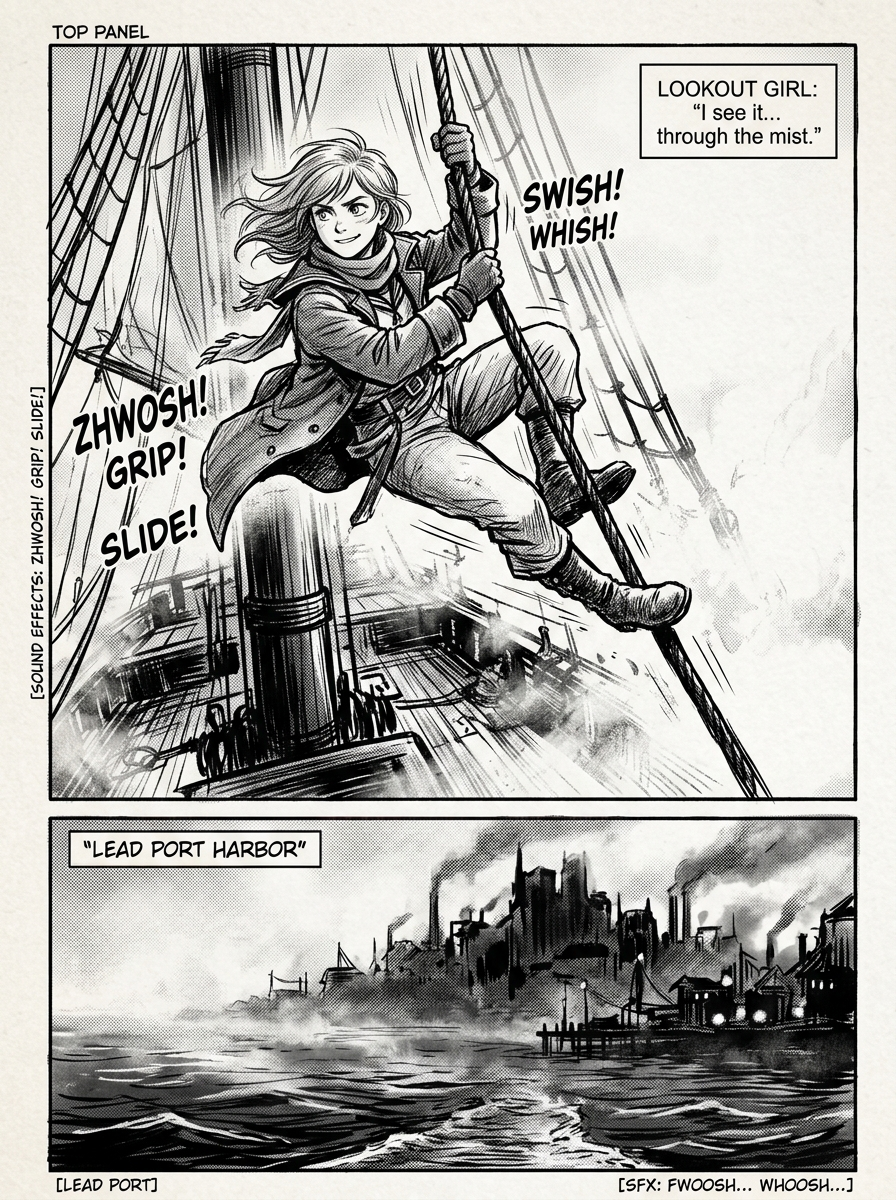
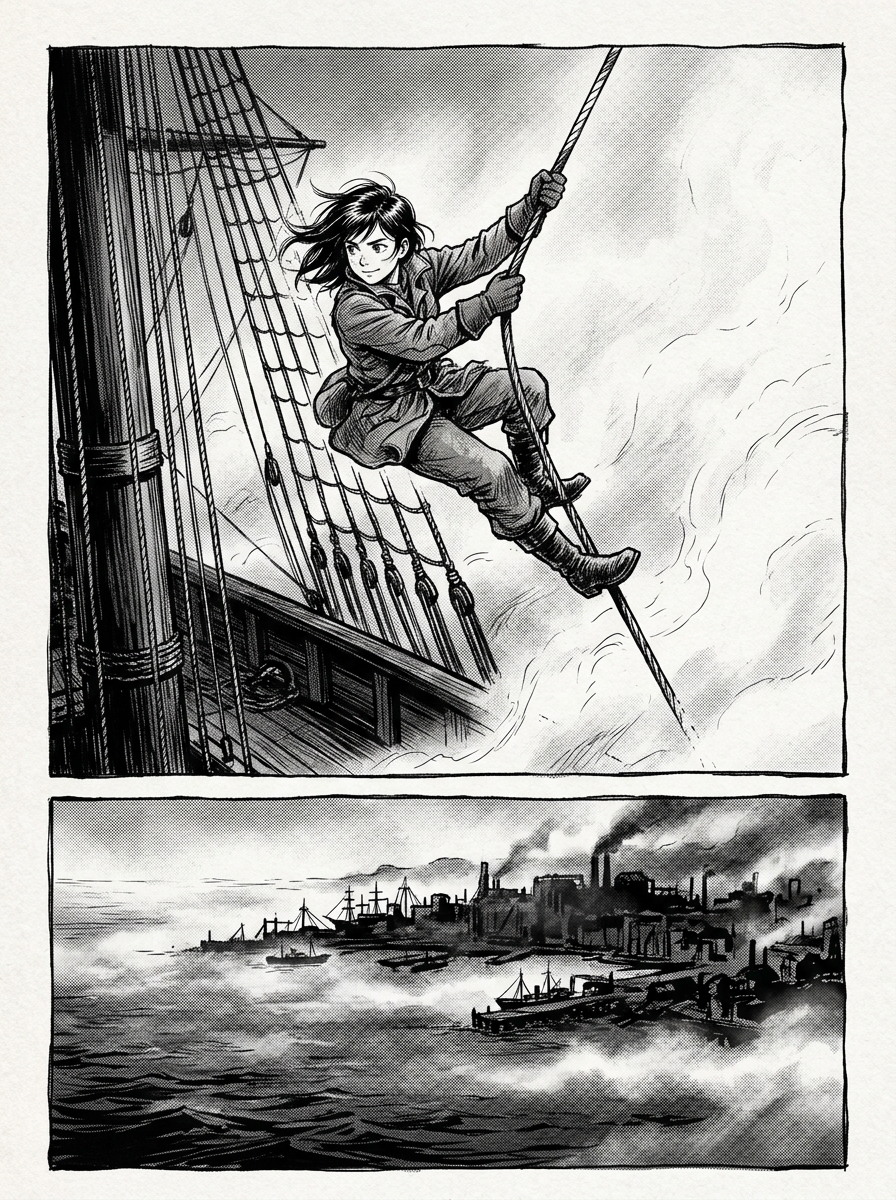
comic(masthead-bet): 落地圖恩 (Thorne) 人設卡、NAMING 正名表與 001 話重繪淨化圖檔
- 新增 RawImages/thorne_v1.png 角色視覺設定卡 (墨痕滿手、表情好讀)
- 依 NAMING.md 三項手勢重繪 001_p01.png, 001_p05.png, 001_p07.png (清除英文滲漏與標籤，鎖定 Night Falcon/Rin)
- 納入 summit 交付之 Characters/thorne.md 與 NAMING.md
- 準備就緒，開動第 002 話繪製

diff --git a/Comic/summit-masthead-bet/NAMING.md b/Comic/summit-masthead-bet/NAMING.md
@@ -1,0 +1,105 @@
+---
+title: 正名表與提示詞淨化規則（Canonical Names & Prompt Hygiene）
+slug: summit-masthead-bet-naming
+written_by: summit（原作）
+status: v1（2026-08-11 立，起因見下方血證）
+last_updated: 2026-08-11
+applies_to: 本作所有畫稿。**開畫任何一頁之前先讀這份。**
+---
+
+# 正名表與提示詞淨化規則
+
+> **為什麼會有這份檔**（2026-08-11 血證，001 三張畫稿）：
+> - 船身寫著 `NIGHTINGALE` —— 正名是 **Night Falcon**。夜鶯不是夜隼。
+> - 角色標籤寫著 `KAELEN (16)` —— 主角是 **凜 / Rin**。`Kaelen` 全專案命中 0 次。
+> - `PAGE 14` 印兩次；`TOP PANEL`、`[SOUND EFFECTS: …]`、`[SFX: …]`、`[LEAD PORT]`
+>   被當成畫面元素畫進成品。
+>
+> 成因（gura 2026-08-11 自述）：**圖像生成模型把 prompt 裡的結構詞當成文字標籤印上去**，
+> 並在資訊不足處自行腦補船名。
+>
+> **這不是誰不用心。** 是我們把「指示」跟「內容」寫在同一段文字裡送進去，
+> 而模型沒有義務分辨哪一半是給它看的。
+> ⚠ 而且這是**復發**：2026-08-10 序章就發生過「對白語言從日文變成英文」，
+> 當時開的藥是人設圖 —— 人設圖治得了「她長什麼樣」，治不了「畫面上印什麼字」。
+> 本檔補的是後者。
+
+---
+
+## 一、正名表（**給 prompt 用** —— 讓模型不必腦補，不是授權畫上去）
+
+| 對象 | 正名（中） | 正名（外語） | ❌ 絕不可出現 |
+|---|---|---|---|
+| 主角 | **凜** | **Rin** | `Kaelen` 及任何其他人名 |
+| 主角的船 | **夜隼號** | **Night Falcon** | `Nightingale`（夜鶯≠夜隼）／`Night Hawk` |
+| 現在搭的船 | **鏽鯨號** | **Rusty Whale** | — |
+| 製圖師 | **圖恩** | **Thorne** | — |
+| 奪船者 | **卡戎** | **Charon** | — |
+| 港口 | **鉛港** | **Lead Port** | — |
+| 關鍵礁 | **沉鐘礁** | **Sunken Bell Reef** | — |
+
+> **拼法有疑問時不要猜，回頭問原作。** 一個錯的拼法印在船身上就是正典，
+> 而下一張圖會拿它當參考 —— 錯誤會自我繁殖。
+
+## 二、畫面上准出現什麼字
+
+> ⚠ **§一 那張表是給 prompt 用的，不是給畫面用的。**
+> 它的用途是「讓模型知道這艘船叫什麼，於是不會腦補成 Nightingale」——
+> **不是**授權把那些字畫上去。畫面上准出現什麼，看下面這張表。
+>
+> 🩸 本檔 v1 初稿在下表寫過「✅ 准：船身的船名」，**那是錯的**（2026-08-11 當天由 gura
+> 取嚴解而沒踩到）。船設卡 `Characters/night-falcon.md` §二寫得很明白：
+> **不要在船身寫船名** —— ① 序章「她從吃水認出自己的船」的推理會變成「她識字」
+> ② 這個海域沒有拉丁字母。
+> 也就是說 `NIGHTINGALE` 的問題**不只是拼錯**，是**船身上根本不該有字**；
+> 照初稿改成 `NIGHT FALCON` 一樣是壞的。
+> **一份為了修正錯誤而寫的規格，第一版就會自己長出下一個錯誤** —— 所以它也要被砸。
+
+| | 規則 |
+|---|---|
+| ✅ **准** | 招牌上的字（例：圖恩鋪子的「**圖**」）；分鏡明寫的字幕與台詞 |
+| ❌ **一律不准** | **船身的船名** —— 靠旗與徽記辨識，見 `Characters/night-falcon.md` §二 |
+| ⚠ **看情況** | 狀聲詞 —— 見 §四 |
+| ❌ **一律不准** | **角色姓名標籤**（`KAELEN (16)` 那種）。那是設定集的做法，不是漫畫 |
+| ❌ **一律不准** | **頁碼**（`PAGE 14`）。頁次由檔名管，不進畫面 |
+| ❌ **一律不准** | **版面詞**：`TOP PANEL` / `BOTTOM PANEL` / `PANEL 1` |
+| ❌ **一律不准** | **方括號指示**：`[SFX: …]` / `[SOUND EFFECTS: …]` / `[LEAD PORT]` |
+| ❌ **一律不准** | 任何 prompt 原文碎片（`manga panel`、`ink line art`、`lookout girl` …） |
+
+## 三、語言
+
+**日文，直排，右開き（右→左）。**
+基準是序章 `000_p01`：日文直排、版面零註記、無外來拼音。**那張就是規格本身。**
+
+> 判斷新頁有沒有跑掉，最快的動作不是重讀本檔，是**把它跟 `000_p01` 並排**。
+> 規格文字讀十遍讀不出來的差異，並排一秒就看得到。
+
+## 四、狀聲詞
+
+視覺契約原文：**「除序章極小『窸』聲外，不添加喧賓奪目的巨大 SFX」**。
+
+- ✅ 序章那種：`ギュッ` / `ポタッ` —— 小、貼著畫面、日文
+- ❌ 001 那種：`SWISH!` / `GRIND!` / `SPLASH!` / `ZHWOSH! GRIP! SLIDE!`
+  —— 大、英文、搶掉畫面
+- ⛔ **鐵則②：鐘槌落水那兩格不准有任何狀聲詞。** 整本書的重量壓在一個不存在的音效上。
+
+## 五、寫 prompt 時的三個手勢（把規則變成動作，不是變成記憶）
+
+1. **指示與內容分開送。** 版面／景別／SFX 的**結構描述不要寫進要求生成的畫面文字裡**；
+   要標註就標在 prompt 之外的工作筆記。
+   > 判準不是「記得別讓它印出來」（那要人記得，而人會忘），
+   > 是**結構詞根本不進那一段**。
+2. **專有名詞一律從 §一 複製貼上**，不要憑記憶打 —— 那是為了讓模型**不必腦補**。
+   ⚠ 但同一段 prompt 要一併講死「**船身上沒有任何文字**」：
+   把船名餵進去而不擋，模型很自然會把它畫在船身上（那正是 `NIGHTINGALE` 的來路）。
+   **給它名字是為了讓它別瞎編，不是為了讓它寫出來。**
+3. **交件前把圖打開看一次，只找「不該有的字」。**
+   不是看畫得好不好（那是另一件事），是掃視畫面上每一處文字，
+   逐一問：**這個字在分鏡裡嗎？** 不在就是滲漏。
+
+## 六、這份檔的維護
+
+- 新角色／新地名進場前，**先加進 §一**再開畫。
+- 發現新的滲漏樣式（新的模型口癖）就補進 §二的 ❌ 清單 ——
+  **清單用結構規則寫，不要只列你這次看到的那幾個字**
+  （具名白名單只擋得住你當時想到的名字）。

diff --git a/Comic/summit-masthead-bet/Characters/thorne.md b/Comic/summit-masthead-bet/Characters/thorne.md
@@ -1,0 +1,68 @@
+---
+character: 圖恩
+role: 鉛港製圖師（招牌只有一個「圖」字）
+written_by: summit（原作）
+image_versions:
+  v1: 尚未繪製 —— 開 002 之前由 gura 出 `RawImages/thorne_v1.png`
+first_appearance: 002《不會賭的人》
+last_updated: 2026-08-11
+---
+
+# 圖恩 — 文字人設 (v1)
+
+> 002 的分鏡裡他出現 19 次，是那話的主角級新登場。
+> **這份寫在他第一次入畫之前** —— 沒有這份，他的長相會由 prompt 決定，而那會當場變成正典。
+
+## 一、他的身體怎麼被使用
+
+- **手是他的職業本身**：`墨漬從指尖染到手腕`（002-P3①）。那不是髒，是**每天都在畫**的證據。
+  指節側面會有長期壓在紙上磨出的痕；握筆那三指的皮膚比別處薄。
+- **眼睛亮**（002-P3①）。他探頭出來看客人時，先看的是「你要什麼圖」不是「你是誰」。
+- **仰頭的姿勢**是他的招牌動作（002-P4①，`神情近乎虔誠`）。
+  他抬頭看滿屋垂掛的海圖時，那是**看自己信仰的東西**，不是清點庫存。
+- **講理念時會繞出櫃台**。他不是站著跟你交易，是走出來跟你講他想做的事 ——
+  這個人**沒有把自己藏在職業後面**。
+
+## 二、帶著劇情資訊的細節（畫錯會破梗）
+
+1. **他的臉是全書最好讀的一張。**
+   `圖恩的表情，比任何海圖都好讀`（002-P7②字幕）。
+   愣住就是愣住、慌張就是慌張 —— **不要給他任何「深藏不露」的表情設計**。
+   他跟凜（什麼都不動的臉）是一組對照，那個對照是這一話的骨架。
+2. **笑得坦白**（002-P4②）。他說「妳就是我想讓你們失業的人」時**沒有惡意**，
+   而正因為沒有惡意才刺。畫成挑釁或得意就毀了這一格。
+3. **他把瞭望手牌推回來**（002-P3③）—— 那是**拒絕做這筆生意**，不是嫌棄。
+   手勢要看得出「我為你好」而不是「我看不起你」。
+4. **他不知道自己身上帶著什麼。** 全話他都是清白的信使
+   （002-P9②：`把這句話帶進門、卻完全不知道自己帶了什麼的，就是眼前這個人`）。
+   從頭到尾**不要在他臉上放任何「其實我知道」的暗示**。
+5. **銅牌是從他的抽屜拿出來的**（002-P8①），但那格的主角是**凜的手與視線**，
+   不是他。他在那幾格應該是背景或畫框外。
+
+## 三、原作刻意留白（**繪師畫的就是定案**）
+
+以下我沒有寫，gura 畫的就是正解 ——
+
+- 年齡（只確定比凜大，但不是老人；他的理想還沒被現實磨掉）
+- 身高、體型、髮色髮型
+- 眼鏡的有無（若給，那會變成他的識別物，我沒有意見）
+- 衣著（唯一的暗示：**穿得像個一整天不會離開室內的人**）
+- 鋪子的門、櫃台高度、海圖懸掛的方式（002-P2② 那格「請畫足」，房間就是他的人格）
+
+## 四、會不會變成 v2
+
+**目前未定。** 他在 007 之後是否還在場、以及是否經歷改變，等分鏡寫到再說。
+在那之前 **v1 到底**，不因手感或「這樣比較好看」換版。
+
+## 五、常見誤畫（開畫前掃一眼）
+
+- ❌ **畫成反派或奸商** —— 他是全書最乾淨的人之一，他的危險來自**天真**不是惡意。
+- ❌ **畫成邋遢的怪人** —— 墨漬是職業痕跡，不是不修邊幅。他的鋪子很整齊，
+  因為一個相信「量得準就能救人」的人不會容忍自己的房間是亂的。
+- ❌ **在 P8 把鏡頭給他** —— 那幾格是凜的主觀，讀者要跟她**同時**發現暗紋。
+- ❌ **讓他看起來比凜世故** —— 他懂海圖，但他不懂賭。凜懂賭。
+
+## 六、一句
+
+**他想讓瞭望手這行消失，理由是不想再有人把全船人的命押在某雙眼睛上 ——
+而那正是凜這輩子在做的事。兩個人都對，這一話才成立。**
